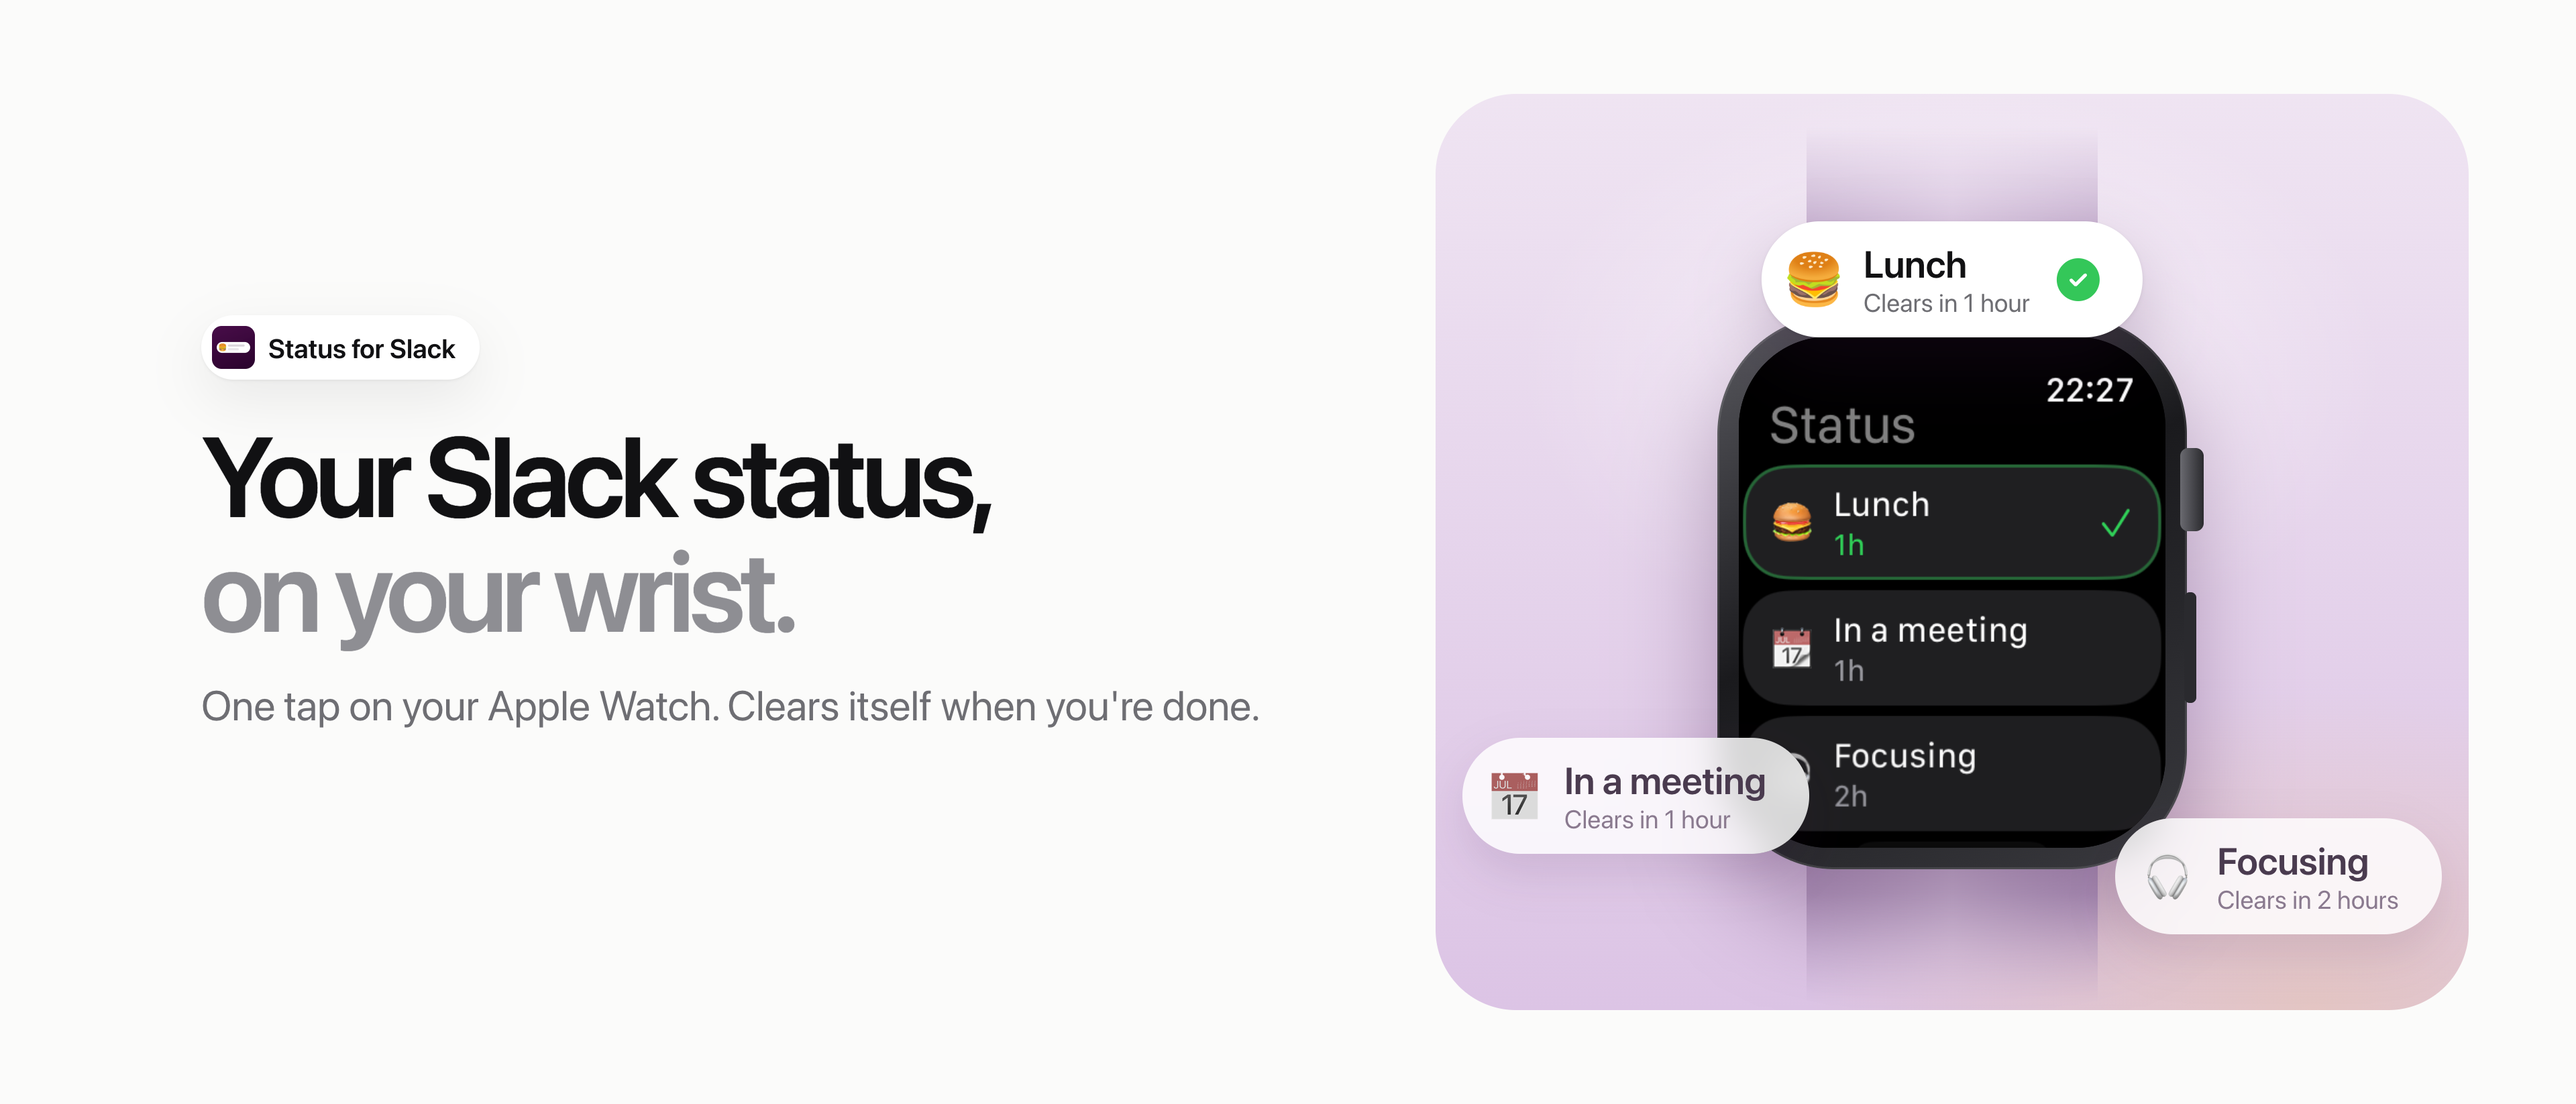
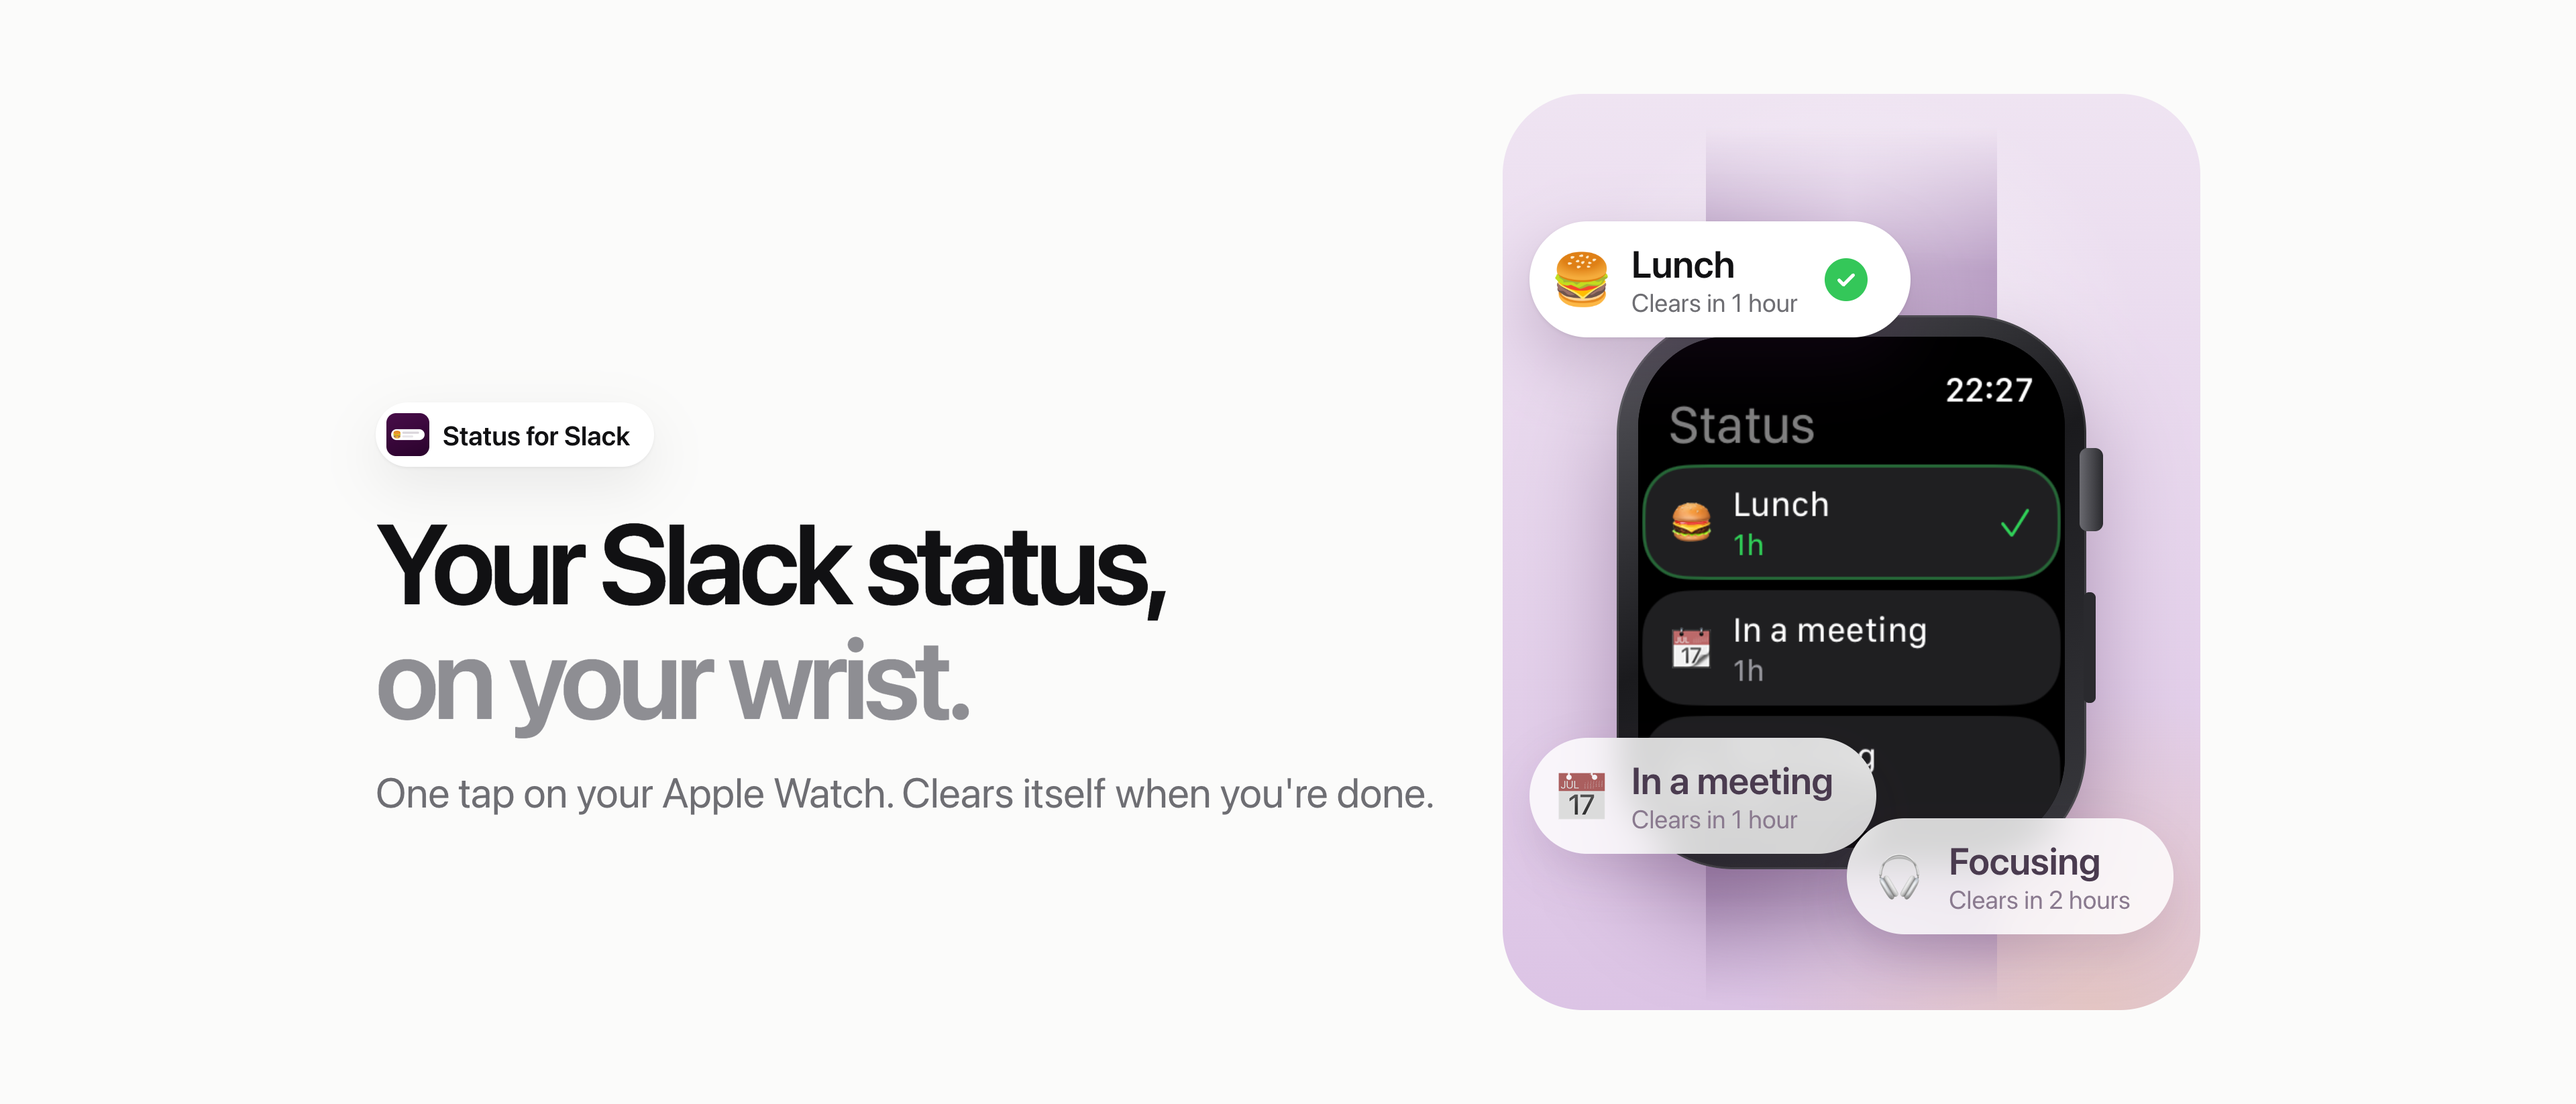
Keep the product page header inside the phone's safe area (#9)
On iPhone the header is cropped about 300px off each side and the back and
share buttons sit over the top corners, which put the headline against the
left edge and cut off the watch card. The headline moves in and down, the
card pulls in 400px from the right, and the Lunch pill moves out from under
the share button.

Changed region(s): [[0.1562, 0.1239, 0.9688, 0.9295], [0.0625, 0.3718, 0.5, 0.6817], [0.0625, 0.2789, 0.1875, 0.3408]]

diff --git a/AppStore/design/header.html b/AppStore/design/header.html
@@ -1,11 +1,13 @@
 <!doctype html><meta charset="utf-8"><link rel="stylesheet" href="style.css">
 <style>
   html, body { width: 3840px; height: 1646px; }
-  .headline { position: absolute; left: 300px; top: 470px; width: 1760px; }
+  /* Phones crop roughly 300px off each side and lay the back and share buttons over the top corners,
+     so everything that matters stays inside 560px of either edge and clear of the top 640px at the corners */
+  .headline { position: absolute; left: 560px; top: 600px; width: 1600px; }
   .headline h1 { margin-top: 56px; font-size: 168px; }
   .headline p { margin-top: 44px; font-size: 62px; line-height: 1.35; color: var(--muted); }
   /* The watch sits in the showcase card, which clips its band the way the landing page's does */
-  .showcase { left: 2140px; right: 160px; top: 140px; bottom: 140px; border-radius: 120px; }
+  .showcase { left: 2240px; right: 560px; top: 140px; bottom: 140px; border-radius: 120px; }
   .pill { font-size: 56px; padding: 30px 64px 30px 34px; }
   .pill img { width: 88px; height: 88px; }
   .pill small { font-size: 38px; }
@@ -20,12 +22,12 @@
   <p>One tap on your Apple Watch. Clears itself when you're done.</p>
 </div>
 <div class="showcase">
-  <div class="watch" style="left:420px;top:330px;width:700px;height:826px">
+  <div class="watch" style="left:170px;top:330px;width:700px;height:826px">
     <div class="band top"></div><div class="band bottom"></div>
     <div class="case"><div class="screen"><img src="../raw/watch-presets.png"></div></div>
     <div class="crown"></div><div class="button"></div>
   </div>
-  <div class="pill" style="left:50%;transform:translateX(-50%);top:190px"><img src="burger.png"><div>Lunch<small>Clears in 1 hour</small></div><span class="check"><svg viewBox="0 0 24 24" fill="none" stroke="#fff" stroke-width="3.4" stroke-linecap="round" stroke-linejoin="round"><path d="M5 12.5l4.5 4.5L19 7.5"/></svg></span></div>
+  <div class="pill" style="left:40px;top:190px"><img src="burger.png"><div>Lunch<small>Clears in 1 hour</small></div><span class="check"><svg viewBox="0 0 24 24" fill="none" stroke="#fff" stroke-width="3.4" stroke-linecap="round" stroke-linejoin="round"><path d="M5 12.5l4.5 4.5L19 7.5"/></svg></span></div>
   <div class="pill dim" style="left:40px;top:960px"><span class="emoji">📅</span><div>In a meeting<small>Clears in 1 hour</small></div></div>
   <div class="pill dim" style="right:40px;top:1080px"><span class="emoji">🎧</span><div>Focusing<small>Clears in 2 hours</small></div></div>
 </div>
